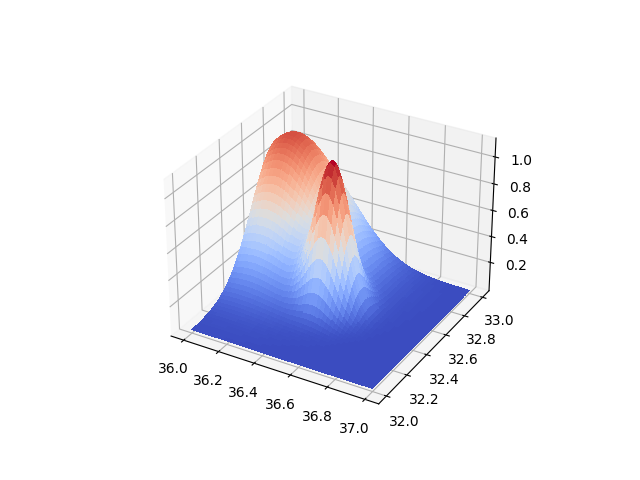
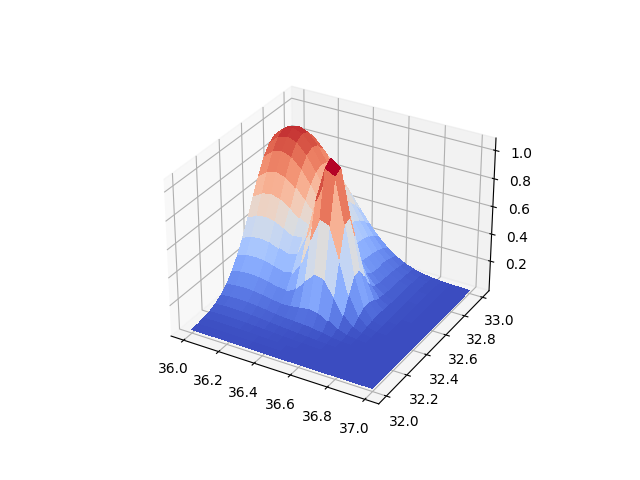
-

diff --git a/sk/2012/08/aradegerleme-interpolation.html b/sk/2012/08/aradegerleme-interpolation.html
@@ -292,8 +292,7 @@ ortalamasını alırız.</p>
     <span class="n">g1</span> <span class="o">=</span> <span class="n">np</span><span class="o">.</span><span class="n">exp</span><span class="p">(</span> <span class="o">-</span><span class="mi">4</span> <span class="o">*</span><span class="n">np</span><span class="o">.</span><span class="n">log</span><span class="p">(</span><span class="mi">2</span><span class="p">)</span> <span class="o">*</span> <span class="p">((</span><span class="n">x</span><span class="o">-</span><span class="n">x1</span><span class="p">)</span><span class="o">**</span><span class="mi">2</span><span class="o">+</span><span class="p">(</span><span class="n">y</span><span class="o">-</span><span class="n">y1</span><span class="p">)</span><span class="o">**</span><span class="mi">2</span><span class="p">)</span> <span class="o">/</span> <span class="n">s1</span><span class="o">**</span><span class="mi">2</span><span class="p">)</span>
     <span class="n">g2</span> <span class="o">=</span> <span class="n">np</span><span class="o">.</span><span class="n">exp</span><span class="p">(</span> <span class="o">-</span><span class="mi">2</span> <span class="o">*</span><span class="n">np</span><span class="o">.</span><span class="n">log</span><span class="p">(</span><span class="mi">2</span><span class="p">)</span> <span class="o">*</span> <span class="p">((</span><span class="n">x</span><span class="o">-</span><span class="n">x2</span><span class="p">)</span><span class="o">**</span><span class="mi">2</span><span class="o">+</span><span class="p">(</span><span class="n">y</span><span class="o">-</span><span class="n">y2</span><span class="p">)</span><span class="o">**</span><span class="mi">2</span><span class="p">)</span> <span class="o">/</span> <span class="n">s2</span><span class="o">**</span><span class="mi">2</span><span class="p">)</span>    
     <span class="k">return</span> <span class="n">g1</span> <span class="o">+</span> <span class="n">g2</span> 
-<span class="n">D</span> <span class="o">=</span> <span class="mi">50</span>
-<span class="n">S</span> <span class="o">=</span> <span class="mi">100</span>
+<span class="n">D</span> <span class="o">=</span> <span class="mi">20</span>
 <span class="n">x</span> <span class="o">=</span> <span class="n">np</span><span class="o">.</span><span class="n">linspace</span><span class="p">(</span><span class="mi">36</span><span class="p">,</span><span class="mi">37</span><span class="p">,</span><span class="n">D</span><span class="p">)</span>
 <span class="n">y</span> <span class="o">=</span> <span class="n">np</span><span class="o">.</span><span class="n">linspace</span><span class="p">(</span><span class="mi">32</span><span class="p">,</span><span class="mi">33</span><span class="p">,</span><span class="n">D</span><span class="p">)</span>
 <span class="n">xx</span><span class="p">,</span><span class="n">yy</span> <span class="o">=</span> <span class="n">np</span><span class="o">.</span><span class="n">meshgrid</span><span class="p">(</span><span class="n">x</span><span class="p">,</span><span class="n">y</span><span class="p">)</span>
@@ -310,10 +309,10 @@ ortalamasını alırız.</p>
 <div class="codehilite">
 <pre><span></span><code><span class="k">def</span> <span class="nf">find_corners</span><span class="p">(</span><span class="n">xi</span><span class="p">,</span><span class="n">yi</span><span class="p">):</span>
     <span class="n">idx1</span> <span class="o">=</span> <span class="n">np</span><span class="o">.</span><span class="n">searchsorted</span><span class="p">(</span><span class="n">x</span><span class="p">,</span> <span class="n">xi</span><span class="p">,</span> <span class="n">side</span><span class="o">=</span><span class="s2">&quot;left&quot;</span><span class="p">)</span>
-    <span class="n">idx2</span> <span class="o">=</span> <span class="n">np</span><span class="o">.</span><span class="n">searchsorted</span><span class="p">(</span><span class="n">y</span><span class="p">,</span> <span class="n">yi</span><span class="p">,</span> <span class="n">side</span><span class="o">=</span><span class="s2">&quot;left&quot;</span><span class="p">)</span>
     <span class="n">idx1</span> <span class="o">=</span> <span class="nb">len</span><span class="p">(</span><span class="n">x</span><span class="p">)</span><span class="o">-</span><span class="n">idx1</span><span class="o">-</span><span class="mi">1</span>
+    <span class="n">idx2</span> <span class="o">=</span> <span class="n">np</span><span class="o">.</span><span class="n">searchsorted</span><span class="p">(</span><span class="n">y</span><span class="p">,</span> <span class="n">yi</span><span class="p">,</span> <span class="n">side</span><span class="o">=</span><span class="s2">&quot;left&quot;</span><span class="p">)</span>
     <span class="n">idx2</span> <span class="o">=</span> <span class="nb">len</span><span class="p">(</span><span class="n">y</span><span class="p">)</span><span class="o">-</span><span class="n">idx2</span><span class="o">-</span><span class="mi">1</span>
-    <span class="k">return</span> <span class="p">[(</span><span class="n">idx1</span><span class="o">-</span><span class="mi">1</span><span class="p">,</span><span class="n">idx2</span><span class="p">),(</span><span class="n">idx1</span><span class="p">,</span><span class="n">idx2</span><span class="o">-</span><span class="mi">1</span><span class="p">),(</span><span class="n">idx1</span><span class="p">,</span><span class="n">idx2</span><span class="p">),(</span><span class="n">idx1</span><span class="o">-</span><span class="mi">1</span><span class="p">,</span><span class="n">idx2</span><span class="o">-</span><span class="mi">1</span><span class="p">)]</span>
+    <span class="k">return</span> <span class="p">[(</span><span class="n">idx1</span><span class="o">-</span><span class="mi">1</span><span class="p">,</span><span class="n">idx2</span><span class="o">-</span><span class="mi">1</span><span class="p">),(</span><span class="n">idx1</span><span class="o">-</span><span class="mi">1</span><span class="p">,</span><span class="n">idx2</span><span class="o">-</span><span class="mi">2</span><span class="p">),(</span><span class="n">idx1</span><span class="o">-</span><span class="mi">2</span><span class="p">,</span><span class="n">idx2</span><span class="o">-</span><span class="mi">1</span><span class="p">),(</span><span class="n">idx1</span><span class="o">-</span><span class="mi">2</span><span class="p">,</span><span class="n">idx2</span><span class="o">-</span><span class="mi">2</span><span class="p">)]</span>
 
 <span class="k">def</span> <span class="nf">cdist</span><span class="p">(</span><span class="n">p1</span><span class="p">,</span><span class="n">p2</span><span class="p">):</span>    
     <span class="n">distances</span> <span class="o">=</span> <span class="n">np</span><span class="o">.</span><span class="n">linalg</span><span class="o">.</span><span class="n">norm</span><span class="p">(</span><span class="n">p1</span> <span class="o">-</span> <span class="n">p2</span><span class="p">,</span> <span class="n">axis</span><span class="o">=</span><span class="mi">1</span><span class="p">)</span>
@@ -330,7 +329,7 @@ ortalamasını alırız.</p>
 </div>
 
 <div class="codehilite">
-<pre><span></span><code>[(23, 29), (24, 28), (24, 29), (23, 28)]
+<pre><span></span><code>[(9, 11), (9, 10), (8, 11), (8, 10)]
 </code></pre>
 </div>
 
@@ -377,10 +376,10 @@ ortalamasını alırız.</p>
 </div>
 
 <div class="codehilite">
-<pre><span></span><code>aradeg 0.6640613091991291 gercek 0.5624999999999915
-aradeg 0.004360662694774617 gercek 0.014328188407904384
-aradeg 0.0005783369645848658 gercek 0.0006370371360601354
-aradeg 0.7356644967566631 gercek 0.9326947927222742
+<pre><span></span><code>aradeg 0.5203198060581533 gercek 0.5624999999999915
+aradeg 0.012292103603170563 gercek 0.014328188407904384
+aradeg 0.000476645535074579 gercek 0.0006370371360601354
+aradeg 0.9209512999874692 gercek 0.9326947927222742
 </code></pre>
 </div>
 
@@ -402,6 +401,20 @@ içine düştüğü hücrenin köşelerini kontur grafiği içinde gösteriyor.<
 
 <span class="n">plot_corners</span><span class="p">(</span><span class="mf">36.5</span><span class="p">,</span><span class="mf">32.4</span><span class="p">)</span>
 <span class="n">plt</span><span class="o">.</span><span class="n">savefig</span><span class="p">(</span><span class="s1">&#39;aradegerleme-interpolation_05.png&#39;</span><span class="p">)</span>
+</code></pre>
+</div>
+
+<div class="codehilite">
+<pre><span></span><code>10
+[36.         36.05263158 36.10526316 36.15789474 36.21052632 36.26315789
+ 36.31578947 36.36842105 36.42105263 36.47368421 36.52631579 36.57894737
+ 36.63157895 36.68421053 36.73684211 36.78947368 36.84210526 36.89473684
+ 36.94736842 37.        ]
+8
+[32.         32.05263158 32.10526316 32.15789474 32.21052632 32.26315789
+ 32.31578947 32.36842105 32.42105263 32.47368421 32.52631579 32.57894737
+ 32.63157895 32.68421053 32.73684211 32.78947368 32.84210526 32.89473684
+ 32.94736842 33.        ]
 </code></pre>
 </div>
 

diff --git a/sk/2012/08/aradegerleme-interpolation.md b/sk/2012/08/aradegerleme-interpolation.md
@@ -241,8 +241,7 @@ def func(x, y):
     g1 = np.exp( -4 *np.log(2) * ((x-x1)**2+(y-y1)**2) / s1**2)
     g2 = np.exp( -2 *np.log(2) * ((x-x2)**2+(y-y2)**2) / s2**2)    
     return g1 + g2 
-D = 50
-S = 100
+D = 20
 x = np.linspace(36,37,D)
 y = np.linspace(32,33,D)
 xx,yy = np.meshgrid(x,y)
@@ -258,15 +257,14 @@ plt.savefig('aradegerleme-interpolation_04.png')
 ```python
 def find_corners(xi,yi):
     idx1 = np.searchsorted(x, xi, side="left")
-    idx2 = np.searchsorted(y, yi, side="left")
     idx1 = len(x)-idx1-1
+    idx2 = np.searchsorted(y, yi, side="left")
     idx2 = len(y)-idx2-1
-    return [(idx1-1,idx2),(idx1,idx2-1),(idx1,idx2),(idx1-1,idx2-1)]
+    return [(idx1-1,idx2-1),(idx1-1,idx2-2),(idx1-2,idx2-1),(idx1-2,idx2-2)]
 
 def cdist(p1,p2):    
     distances = np.linalg.norm(p1 - p2, axis=1)
     return distances
-
 ```
 
 Örnek bir noktanın içinde olduğu hücrenin indis değerleri,
@@ -277,7 +275,7 @@ print (cs)
 ```
 
 ```text
-[(23, 29), (24, 28), (24, 29), (23, 28)]
+[(9, 11), (9, 10), (8, 11), (8, 10)]
 ```
 
 ```python
@@ -321,10 +319,10 @@ test(36.111,32.711)
 ```
 
 ```text
-aradeg 0.6640613091991291 gercek 0.5624999999999915
-aradeg 0.004360662694774617 gercek 0.014328188407904384
-aradeg 0.0005783369645848658 gercek 0.0006370371360601354
-aradeg 0.7356644967566631 gercek 0.9326947927222742
+aradeg 0.5203198060581533 gercek 0.5624999999999915
+aradeg 0.012292103603170563 gercek 0.014328188407904384
+aradeg 0.000476645535074579 gercek 0.0006370371360601354
+aradeg 0.9209512999874692 gercek 0.9326947927222742
 ```
 
 Altta yardımcı olabilecek bir grafikleme fonksiyonu, yeni nokta için onun
@@ -345,6 +343,19 @@ def plot_corners(intx,inty):
 
 plot_corners(36.5,32.4)
 plt.savefig('aradegerleme-interpolation_05.png')
+```
+
+```text
+10
+[36.         36.05263158 36.10526316 36.15789474 36.21052632 36.26315789
+ 36.31578947 36.36842105 36.42105263 36.47368421 36.52631579 36.57894737
+ 36.63157895 36.68421053 36.73684211 36.78947368 36.84210526 36.89473684
+ 36.94736842 37.        ]
+8
+[32.         32.05263158 32.10526316 32.15789474 32.21052632 32.26315789
+ 32.31578947 32.36842105 32.42105263 32.47368421 32.52631579 32.57894737
+ 32.63157895 32.68421053 32.73684211 32.78947368 32.84210526 32.89473684
+ 32.94736842 33.        ]
 ```
 
 ![](aradegerleme-interpolation_05.png)
